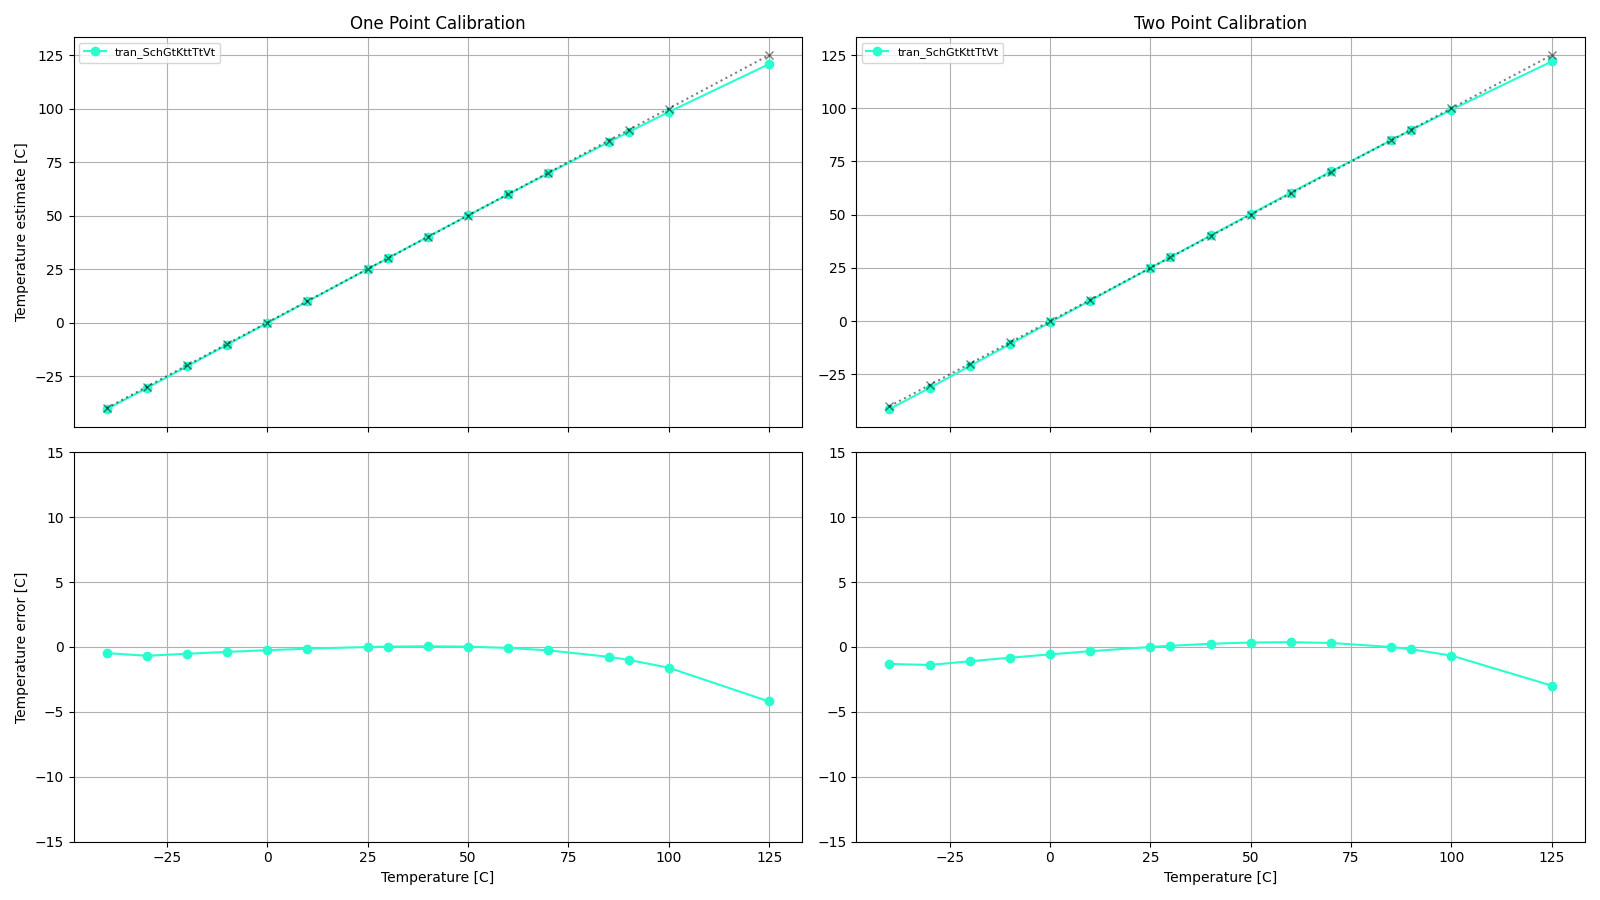
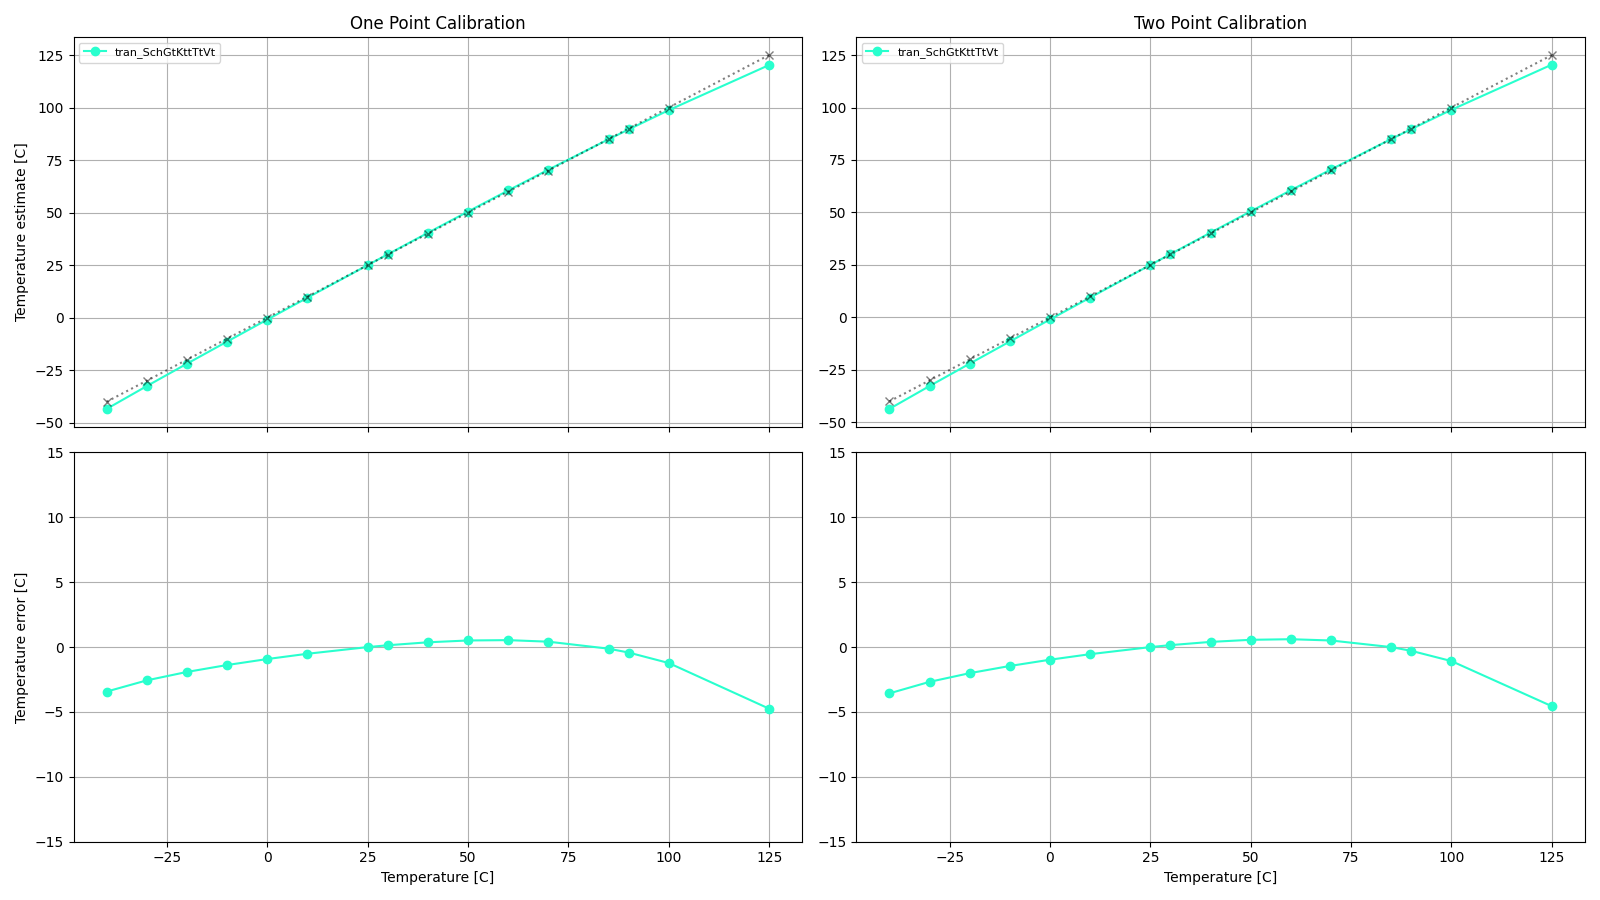
added lvt transistor in OTA diffpair

diff --git a/py/LELO_TEMP.py b/py/LELO_TEMP.py
@@ -21,11 +21,11 @@ class LELO_TEMP():
         self.cmp_delay = 1.5e-9
 
         #- Simulation of 1 V across the resistor
-        self.T_points = np.array([self.T0 -25, self.T0 + 27, self.T0 + 75])
+        self.T_points = np.array([self.T0-25, self.T0 + 27, self.T0 + 75])
         self.R_points = np.array([
-            1 / 9.77e-6,
-            1 / 9.68e-6,
-            1 / 9.44e-6
+            1 / 1.08e-5,
+            1 / 1.06e-5,
+            1 / 1.03e-5
         ])
 
         #- Boltzmann's constatnt over the unit charge

diff --git a/sim/tb_lelo_temp/tb.py b/sim/tb_lelo_temp/tb.py
@@ -16,7 +16,7 @@ df = pd.read_csv("tb.csv")
 
 freq = df["count"]*32768
 
-offset = -6
+offset = -15
 x = df["temperature"]
 y = lt.KelvinFromFreq(freq,compensate=True) - lt.T0 + offset
 

diff --git a/sim/LELOTEMP_BIAS_IBP/README.md b/sim/LELOTEMP_BIAS_IBP/README.md
@@ -9,37 +9,37 @@ Check stability
 |**Name**|**Parameter**|**Description**| |**Min**|**Typ**|**Max**| Unit|
 |:---|:---|:---|---:|:---:|:---:|:---:| ---:|
 |**Gain Margin**|**gm\_db** || **Spec**  | **-50.00** | **-10.00** | **-10.00** | **dB** |
-| | | |<a href='results/lstb_Sch_typical.html'>Sch_typ</a>| | -16.40 |  | |
-| | | |<a href='results/lstb_Sch_etc.html'>Sch_etc</a>|-44.30 | -15.76 | -11.41 | |
-| | | |<a href='results/lstb_Sch_mc.html'>Sch_3std</a>|-17.69 | -16.59 | -15.48 | |
+| | | |<a href='results/lstb_Sch_typical.html'>Sch_typ</a>| | -15.21 |  | |
+| | | |<a href='results/lstb_Sch_etc.html'>Sch_etc</a>|-23.43 | -15.39 | -12.64 | |
+| | | |<a href='results/lstb_Sch_mc.html'>Sch_3std</a>|-21.01 | -17.10 | -13.20 | |
 |**DC gain**|**lf\_gain** || **Spec**  | **25.00** | **40.00** | **55.00** | **dB** |
-| | | |<a href='results/lstb_Sch_typical.html'>Sch_typ</a>| | 42.15 |  | |
-| | | |<a href='results/lstb_Sch_etc.html'>Sch_etc</a>|<span style='color:red'>**22.26**</span> | 42.10 | 45.69 | |
-| | | |<a href='results/lstb_Sch_mc.html'>Sch_3std</a>|40.42 | 42.13 | 43.84 | |
+| | | |<a href='results/lstb_Sch_typical.html'>Sch_typ</a>| | 42.73 |  | |
+| | | |<a href='results/lstb_Sch_etc.html'>Sch_etc</a>|39.81 | 42.69 | 43.82 | |
+| | | |<a href='results/lstb_Sch_mc.html'>Sch_3std</a>|40.40 | 42.87 | 45.34 | |
 |**Phase Margin**|**pm\_deg** || **Spec**  | **45.00** | **60.00** | **90.00** |  |
-| | | |<a href='results/lstb_Sch_typical.html'>Sch_typ</a>| | 62.76 |  | |
-| | | |<a href='results/lstb_Sch_etc.html'>Sch_etc</a>|<span style='color:orange'>**44.75**</span> | 59.68 | <span style='color:orange'>**93.99**</span> | |
-| | | |<a href='results/lstb_Sch_mc.html'>Sch_3std</a>|60.23 | 63.26 | 66.28 | |
+| | | |<a href='results/lstb_Sch_typical.html'>Sch_typ</a>| | 59.47 |  | |
+| | | |<a href='results/lstb_Sch_etc.html'>Sch_etc</a>|48.87 | 59.69 | 76.89 | |
+| | | |<a href='results/lstb_Sch_mc.html'>Sch_3std</a>|56.88 | 62.53 | 68.18 | |
 |**Unity Gain Frequency**|**ug** || **Spec**  | **0.40** | **15.00** | **100.00** | **MHz** |
-| | | |<a href='results/lstb_Sch_typical.html'>Sch_typ</a>| | 5.87 |  | |
-| | | |<a href='results/lstb_Sch_etc.html'>Sch_etc</a>|<span style='color:red'>**0.07**</span> | 6.80 | 12.82 | |
-| | | |<a href='results/lstb_Sch_mc.html'>Sch_3std</a>|4.91 | 5.75 | 6.58 | |
+| | | |<a href='results/lstb_Sch_typical.html'>Sch_typ</a>| | 5.38 |  | |
+| | | |<a href='results/lstb_Sch_etc.html'>Sch_etc</a>|1.92 | 5.63 | 9.02 | |
+| | | |<a href='results/lstb_Sch_mc.html'>Sch_3std</a>|4.11 | 5.51 | 6.91 | |
 |**PMOS gate**|**v(lpo)** || **Spec**  | **0.45** | **0.70** | **1.10** | **V** |
 | | | |<a href='results/lstb_Sch_typical.html'>Sch_typ</a>| | 0.76 |  | |
-| | | |<a href='results/lstb_Sch_etc.html'>Sch_etc</a>|<span style='color:orange'>**0.43**</span> | 0.78 | 1.05 | |
-| | | |<a href='results/lstb_Sch_mc.html'>Sch_3std</a>|0.73 | 0.76 | 0.78 | |
+| | | |<a href='results/lstb_Sch_etc.html'>Sch_etc</a>|0.52 | 0.78 | 1.05 | |
+| | | |<a href='results/lstb_Sch_mc.html'>Sch_3std</a>|0.73 | 0.76 | 0.79 | |
 |**Delta diode voltage**|**vd** || **Spec**  | **80.00** | **106.00** | **150.00** | **mV** |
-| | | |<a href='results/lstb_Sch_typical.html'>Sch_typ</a>| | 109.27 |  | |
-| | | |<a href='results/lstb_Sch_etc.html'>Sch_etc</a>|84.63 | 115.01 | 145.71 | |
-| | | |<a href='results/lstb_Sch_mc.html'>Sch_3std</a>|105.44 | 109.39 | 113.34 | |
+| | | |<a href='results/lstb_Sch_typical.html'>Sch_typ</a>| | 109.24 |  | |
+| | | |<a href='results/lstb_Sch_etc.html'>Sch_etc</a>|84.62 | 115.01 | 145.74 | |
+| | | |<a href='results/lstb_Sch_mc.html'>Sch_3std</a>|104.90 | 108.98 | 113.05 | |
 |**Output current**|**i(v1)** || **Spec**  | **0.50** | **1.00** | **2.00** | **uA** |
 | | | |<a href='results/lstb_Sch_typical.html'>Sch_typ</a>| | 1.24 |  | |
-| | | |<a href='results/lstb_Sch_etc.html'>Sch_etc</a>|0.92 | 1.16 | 1.58 | |
-| | | |<a href='results/lstb_Sch_mc.html'>Sch_3std</a>|0.84 | 1.25 | 1.66 | |
+| | | |<a href='results/lstb_Sch_etc.html'>Sch_etc</a>|0.70 | 1.09 | 1.75 | |
+| | | |<a href='results/lstb_Sch_mc.html'>Sch_3std</a>|0.67 | 1.10 | 1.54 | |
 |**VD Error**|**vdiff** || **Spec**  | **-6.00** | **0.00** | **6.00** | **mV** |
-| | | |<a href='results/lstb_Sch_typical.html'>Sch_typ</a>| | 0.57 |  | |
-| | | |<a href='results/lstb_Sch_etc.html'>Sch_etc</a>|0.12 | 0.47 | 2.47 | |
-| | | |<a href='results/lstb_Sch_mc.html'>Sch_3std</a>|<span style='color:red'>**-27.67**</span> | 0.35 | <span style='color:red'>**28.38**</span> | |
+| | | |<a href='results/lstb_Sch_typical.html'>Sch_typ</a>| | 0.64 |  | |
+| | | |<a href='results/lstb_Sch_etc.html'>Sch_etc</a>|0.25 | 0.60 | 1.02 | |
+| | | |<a href='results/lstb_Sch_mc.html'>Sch_3std</a>|<span style='color:red'>**-32.30**</span> | -0.01 | <span style='color:red'>**32.29**</span> | |
 
 #### Transient (tran)
 
@@ -50,29 +50,29 @@ Check settling time and current variation
 |**Name**|**Parameter**|**Description**| |**Min**|**Typ**|**Max**| Unit|
 |:---|:---|:---|---:|:---:|:---:|:---:| ---:|
 ||**t\_settle** || **Spec**  | **0.01** | **0.05** | **2.00** | **us** |
-| | | |<a href='results/tran_Sch_typical.html'>Sch_typ</a>| | 0.83 |  | |
-| | | |<a href='results/tran_Sch_etc.html'>Sch_etc</a>|0.59 | 1.12 | <span style='color:red'>**4.30**</span> | |
-| | | |<a href='results/tran_Sch_mc.html'>Sch_3std</a>|0.64 | 0.78 | 0.92 | |
+| | | |<a href='results/tran_Sch_typical.html'>Sch_typ</a>| | 0.91 |  | |
+| | | |<a href='results/tran_Sch_etc.html'>Sch_etc</a>|0.71 | 1.12 | <span style='color:red'>**2.23**</span> | |
+| | | |<a href='results/tran_Sch_mc.html'>Sch_3std</a>|0.68 | 0.91 | 1.13 | |
 ||**i0** || **Spec**  | **0.500** | **1.000** | **2.000** | **uA** |
-| | | |<a href='results/tran_Sch_typical.html'>Sch_typ</a>| | 1.154 |  | |
-| | | |<a href='results/tran_Sch_etc.html'>Sch_etc</a>|0.810 | 1.168 | 1.661 | |
-| | | |<a href='results/tran_Sch_mc.html'>Sch_3std</a>|0.736 | 1.169 | 1.601 | |
+| | | |<a href='results/tran_Sch_typical.html'>Sch_typ</a>| | 1.153 |  | |
+| | | |<a href='results/tran_Sch_etc.html'>Sch_etc</a>|0.806 | 1.162 | 1.657 | |
+| | | |<a href='results/tran_Sch_mc.html'>Sch_3std</a>|0.690 | 1.139 | 1.588 | |
 ||**i1** || **Spec**  | **0.500** | **1.000** | **2.000** | **uA** |
-| | | |<a href='results/tran_Sch_typical.html'>Sch_typ</a>| | 1.153 |  | |
-| | | |<a href='results/tran_Sch_etc.html'>Sch_etc</a>|0.809 | 1.165 | 1.661 | |
-| | | |<a href='results/tran_Sch_mc.html'>Sch_3std</a>|0.719 | 1.163 | 1.608 | |
+| | | |<a href='results/tran_Sch_typical.html'>Sch_typ</a>| | 1.152 |  | |
+| | | |<a href='results/tran_Sch_etc.html'>Sch_etc</a>|0.805 | 1.162 | 1.657 | |
+| | | |<a href='results/tran_Sch_mc.html'>Sch_3std</a>|0.697 | 1.146 | 1.594 | |
 ||**i2** || **Spec**  | **0.500** | **1.000** | **2.000** | **uA** |
-| | | |<a href='results/tran_Sch_typical.html'>Sch_typ</a>| | 1.153 |  | |
-| | | |<a href='results/tran_Sch_etc.html'>Sch_etc</a>|0.808 | 1.163 | 1.660 | |
-| | | |<a href='results/tran_Sch_mc.html'>Sch_3std</a>|0.701 | 1.143 | 1.585 | |
+| | | |<a href='results/tran_Sch_typical.html'>Sch_typ</a>| | 1.152 |  | |
+| | | |<a href='results/tran_Sch_etc.html'>Sch_etc</a>|0.804 | 1.162 | 1.656 | |
+| | | |<a href='results/tran_Sch_mc.html'>Sch_3std</a>|0.726 | 1.131 | 1.537 | |
 ||**i3** || **Spec**  | **0.500** | **1.000** | **2.000** | **uA** |
 | | | |<a href='results/tran_Sch_typical.html'>Sch_typ</a>| | 1.152 |  | |
-| | | |<a href='results/tran_Sch_etc.html'>Sch_etc</a>|0.800 | 1.163 | 1.660 | |
-| | | |<a href='results/tran_Sch_mc.html'>Sch_3std</a>|0.726 | 1.150 | 1.575 | |
+| | | |<a href='results/tran_Sch_etc.html'>Sch_etc</a>|0.804 | 1.161 | 1.656 | |
+| | | |<a href='results/tran_Sch_mc.html'>Sch_3std</a>|0.664 | 1.152 | 1.639 | |
 ||**idd** || **Spec**  | **5.000** | **30.000** | **60.000** | **uA** |
-| | | |<a href='results/tran_Sch_typical.html'>Sch_typ</a>| | 28.221 |  | |
-| | | |<a href='results/tran_Sch_etc.html'>Sch_etc</a>|11.784 | 29.157 | 56.413 | |
-| | | |<a href='results/tran_Sch_mc.html'>Sch_3std</a>|23.921 | 28.245 | 32.570 | |
+| | | |<a href='results/tran_Sch_typical.html'>Sch_typ</a>| | 29.134 |  | |
+| | | |<a href='results/tran_Sch_etc.html'>Sch_etc</a>|15.579 | 30.086 | 48.825 | |
+| | | |<a href='results/tran_Sch_mc.html'>Sch_3std</a>|23.875 | 28.985 | 34.095 | |
 
 #### DC (dc)
 
@@ -83,23 +83,23 @@ Check temperature performance
 |**Name**|**Parameter**|**Description**| |**Min**|**Typ**|**Max**| Unit|
 |:---|:---|:---|---:|:---:|:---:|:---:| ---:|
 ||**ibp\_err\_max** || **Spec**  | **-30.00** | **0.00** | **20.00** | **nA** |
-| | | |<a href='results/dc_Sch_typical.html'>Sch_typ</a>| | 8.89 |  | |
-| | | |<a href='results/dc_Sch_etc.html'>Sch_etc</a>|7.55 | 9.34 | 16.49 | |
-| | | |<a href='results/dc_Sch_mc.html'>Sch_3std</a>|-2.93 | 10.12 | <span style='color:red'>**23.18**</span> | |
+| | | |<a href='results/dc_Sch_typical.html'>Sch_typ</a>| | 8.23 |  | |
+| | | |<a href='results/dc_Sch_etc.html'>Sch_etc</a>|7.33 | 8.26 | 9.40 | |
+| | | |<a href='results/dc_Sch_mc.html'>Sch_3std</a>|5.26 | 8.35 | 11.45 | |
 ||**ibp\_err\_min** || **Spec**  | **-30.00** | **0.00** | **20.00** | **nA** |
-| | | |<a href='results/dc_Sch_typical.html'>Sch_typ</a>| | -16.44 |  | |
-| | | |<a href='results/dc_Sch_etc.html'>Sch_etc</a>|-20.68 | -15.82 | -2.97 | |
-| | | |<a href='results/dc_Sch_mc.html'>Sch_3std</a>|<span style='color:red'>**-31.08**</span> | -12.85 | 5.38 | |
+| | | |<a href='results/dc_Sch_typical.html'>Sch_typ</a>| | -18.01 |  | |
+| | | |<a href='results/dc_Sch_etc.html'>Sch_etc</a>|-20.64 | -18.04 | -15.92 | |
+| | | |<a href='results/dc_Sch_mc.html'>Sch_3std</a>|<span style='color:red'>**-35.11**</span> | -18.10 | -1.08 | |
 ||**imax** || **Spec**  | **0.50** | **0.00** | **2.00** | **uA** |
 | | | |<a href='results/dc_Sch_typical.html'>Sch_typ</a>| | 1.45 |  | |
-| | | |<a href='results/dc_Sch_etc.html'>Sch_etc</a>|1.29 | 1.45 | 1.66 | |
-| | | |<a href='results/dc_Sch_mc.html'>Sch_3std</a>|1.10 | 1.44 | 1.79 | |
+| | | |<a href='results/dc_Sch_etc.html'>Sch_etc</a>|1.28 | 1.45 | 1.66 | |
+| | | |<a href='results/dc_Sch_mc.html'>Sch_3std</a>|0.99 | 1.43 | 1.87 | |
 ||**imin** || **Spec**  | **0.50** | **0.00** | **2.00** | **uA** |
 | | | |<a href='results/dc_Sch_typical.html'>Sch_typ</a>| | 0.91 |  | |
-| | | |<a href='results/dc_Sch_etc.html'>Sch_etc</a>|0.81 | 0.91 | 1.05 | |
-| | | |<a href='results/dc_Sch_mc.html'>Sch_3std</a>|0.55 | 0.92 | 1.30 | |
+| | | |<a href='results/dc_Sch_etc.html'>Sch_etc</a>|0.81 | 0.91 | 1.04 | |
+| | | |<a href='results/dc_Sch_mc.html'>Sch_3std</a>|<span style='color:red'>**0.46**</span> | 0.90 | 1.33 | |
 ||**a\_per\_c** || **Spec**  | **1.00** | **3.00** | **5.00** | **nA** |
-| | | |<a href='results/dc_Sch_typical.html'>Sch_typ</a>| | 3.26 |  | |
-| | | |<a href='results/dc_Sch_etc.html'>Sch_etc</a>|2.77 | 3.26 | 3.75 | |
-| | | |<a href='results/dc_Sch_mc.html'>Sch_3std</a>|2.66 | 3.17 | 3.68 | |
+| | | |<a href='results/dc_Sch_typical.html'>Sch_typ</a>| | 3.25 |  | |
+| | | |<a href='results/dc_Sch_etc.html'>Sch_etc</a>|2.89 | 3.25 | 3.73 | |
+| | | |<a href='results/dc_Sch_mc.html'>Sch_3std</a>|2.84 | 3.23 | 3.62 | |
 

diff --git a/design/LELO_TEMP_SKY130A/LELOTEMP_BIAS_IBP.md b/design/LELO_TEMP_SKY130A/LELOTEMP_BIAS_IBP.md
@@ -42,11 +42,12 @@ See [Diodes](https://analogicus.com/aic2026/2024/10/25/Diodes.html#forward-volta
 
 Estimated values from the model in [LELO\_TEMP.py](py/LELO_TEMP.py) are shown in table below.
 
-| Temperature [C] | Current [uA] | VD1 [V] | DeltaV [mV] |
-|-----------------|--------------|---------|-------------|
-| -40             | 0.816        | 0.8386  | 83.6        |
-| 25              | 1.035        | 0.7412  | 106.9       |
-| 125             | 1.347        | 0.5844  | 142.7       |
+
+| Temperature [C] | Current [uA] | Vc [V] | DeltaV [mV] |
+|-----------------|--------------|--------|-------------|
+| -40             | 0.902        | 0.8386 | 83.6        |
+| 25              | 1.133        | 0.7412 | 106.9       |
+| 125             | 1.470        | 0.5844 | 142.7       |
 
 The table was generated from [model.ipynb](model.ipynb)
 

diff --git a/design/LELO_TEMP_SKY130A/LELO_TEMP.md b/design/LELO_TEMP_SKY130A/LELO_TEMP.md
@@ -32,14 +32,10 @@ The estimated frequency is shown in the table below (the table was generated fro
 
 | Temperature [C] | Frequency [MHz] |
 |-----------------|-----------------|
-| -40             | 1.681           |
-| 25              | 2.406           |
-| 125             | 3.954           |
-|                 |                 |
+| -40             | 1.858           |
+| 25              | 2.634           |
+| 125             | 4.310           |
 
-| Temperature [C]           | -40  | 25 | 125 |
-|---------------------------|------|----|-----|
-| Estimated frequency [MHz] | 2.16 | 3  | 4.8 |
 
 
 
